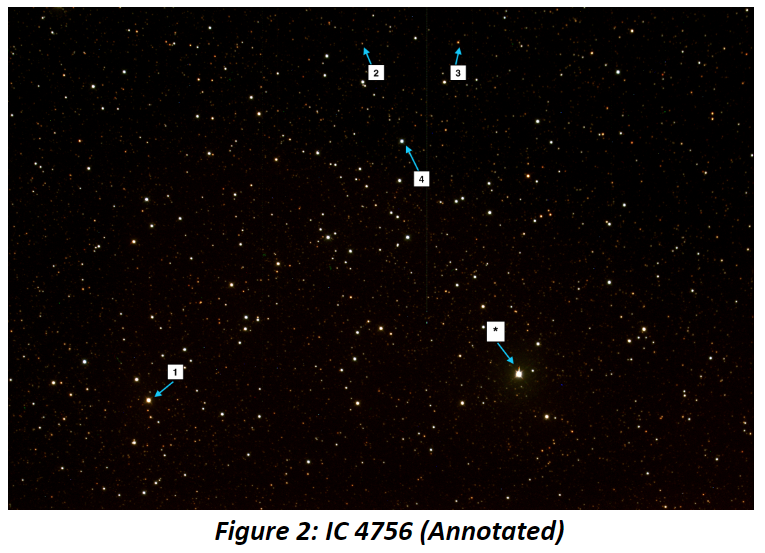
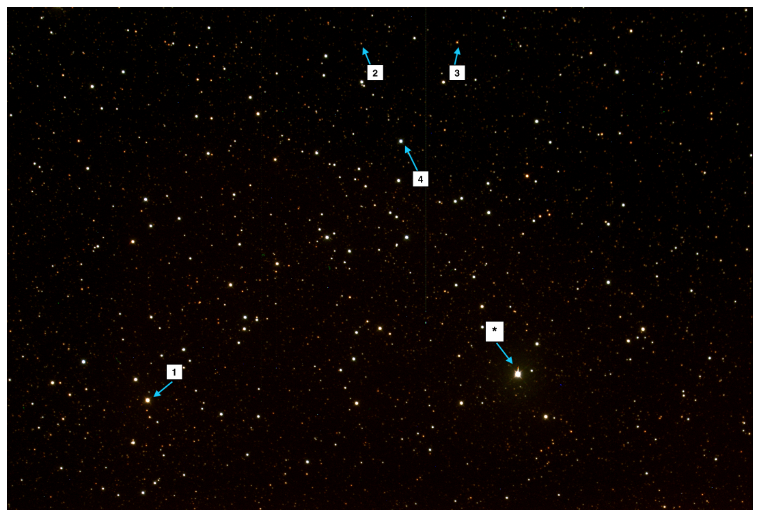
Responsive size; csa

diff --git a/index.html b/index.html
@@ -102,7 +102,9 @@
 
 					<div class="articleRight">
 						<div class="articleRightInner">
-							<iframe width="560" height="315" src="https://www.youtube.com/embed/FlZCPqNgSQo" frameborder="0" allow="accelerometer; autoplay; clipboard-write; encrypted-media; gyroscope; picture-in-picture" allowfullscreen></iframe>
+							<img src="img/others/astro2801p2.png" alt="astro2801p2" height=auto width="500"> >
+							<p>IC4756 Photographed @ Mayhill, New Mexico, USA</p>
+							<p>Oct 23rd 2019 </p>
 						</div>
 					</div>
 		
@@ -141,9 +143,9 @@
 					<h4>January 2021, Western University</h4>
 					<center><h4>Listed on Python Package Index</h4></center>
 					<center><a href="https://pypi.org/project/imvideo/"><b>**Official pypi.org Page**</b></a></center>
-					<center><img src="img/imvideo/pypi_logo.png" class="centerImage"  alt="Ontario Cases" height="200" width="800"></center>
-					<center><a href="https://xli2522.github.io/imvideo/"><b>**Official Project Page**</b></a></center>
-
+					<center><img src="img/imvideo/pypi_logo.png" class="centerImage"  alt="Ontario Cases" height=auto width="800"></center>
+					<center><a href="https://xli2522.github.io/imvideo/"><b>**Official Project Demo Page**</b></a></center>
+					<center><iframe width="560" height="315" src="https://www.youtube.com/embed/FlZCPqNgSQo" frameborder="0" allow="accelerometer; autoplay; clipboard-write; encrypted-media; gyroscope; picture-in-picture" allowfullscreen></iframe></center>
 					<!-- 2020 -->
 					<h2>2020</h2>
 					<h3>Fast Binary Black Hole Simulation</h3> 
@@ -165,6 +167,7 @@
 							<img src="img/cubsat/Earth_Coverage_2d.png" alt="Coverage 2D" onclick="myFunction(this);">
 						</div>
 					</div>
+					
 					<div class="row">
 						<div class="column">
 							<img src="img/cubsat/communication.png" alt="Communication" onclick="myFunction(this);">
@@ -179,11 +182,11 @@
 					
 					<h3>CovNET Project</h3>
 					<h4>May 2020, Department of Applied Mathematics, Muller Lab, Western University</h4>
-					<center><img src="img/CovModel/ontario.png" class="centerImage"  alt="Ontario Cases" height="400" width="628"></center>
+					<center><img src="img/CovModel/ontario.png" class="centerImage"  alt="Ontario Cases" height=auto width="628"></center>
 
 					<h3>Spatial SVEIIRS Model in Epidemiology</h3>
 					<h4>May 2020, Department of Physics and Astronomy, Western University</h4>
-					<center><img src="img/CovModel/presentation.png" class="centerImage"  alt="presentation" height="351" width="1200"></center>
+					<center><img src="img/CovModel/presentation.png" class="centerImage"  alt="presentation" height=auto width="1200"></center>
 
 					<!-- 2019 -->
 					<h2>2019</h2>
@@ -212,7 +215,7 @@
 						<div id="imgtext"></div>
 					</div>
 					<p></p>
-					<center><img src="img/wave/type2_thine_cover.png" class="centerImage"  alt="Type2" height="240" width="700"></center>
+					<center><img src="img/wave/type2_thine_cover.png" class="centerImage"  alt="Type2" height=auto width="700"></center>
 					<h3>OpenCV Case Study</h3>
 				    <center><iframe width="560" height="315" src="https://www.youtube.com/embed/sM9u2Yn_unw" frameborder="0" allow="accelerometer; autoplay; clipboard-write; encrypted-media; gyroscope; picture-in-picture" allowfullscreen></iframe></center>
 					<br>
@@ -225,6 +228,15 @@
 					<button type="button" class="collapsible">CLICK! <b>Data Analysis/Numerical Computation</b></button>
 					<div class="content">
 						<div class="row">
+							<div class="column">
+								<img src="img/others/astro2801p2front.png" alt="astro2801p2" onclick="myFunction(this);">
+							</div>
+							<div class="column">
+								<img src="img/others/gravity.png" alt="gravity" onclick="myFunction(this);">
+							</div>
+							<div class="column">
+								<img src="img/others/astro2801p3.png" alt="astro2801p3" onclick="myFunction(this);">
+							</div>
 							<div class="column">
 								<img src="img/ICM/Game4.2245DONT.png" alt="Game Detail" onclick="myFunction(this);">
 							</div>
@@ -241,10 +253,10 @@
 								<img src="img/others/part4average_grid.jpg" alt="part4average_grid" onclick="myFunction(this);">
 							</div>
 							<div class="column">
-								<img src="img/others/fence_ratio.png" alt="fence_ratio" onclick="myFunction(this);">
+								<img src="img/others/part2graph.jpg" alt="part2graph" onclick="myFunction(this);">
 							</div>
 							<div class="column">
-								<img src="img/others/part2graph.jpg" alt="part2graph" onclick="myFunction(this);">
+								<img src="img/others/fence_ratio.png" alt="fence_ratio" onclick="myFunction(this);">
 							</div>
 							<div class="column">
 								<img src="img/others/pendu.gif" alt="pendu" onclick="myFunction(this);">
@@ -252,15 +264,7 @@
 							<div class="column">
 								<img src="img/others/projectileEuler-Cromer.png" alt="projectile" onclick="myFunction(this);">
 							</div>
-							<div class="column">
-								<img src="img/others/astro2801p2.png" alt="astro2801p2 onclick="myFunction(this);">
-							</div>
-							<div class="column">
-								<img src="img/others/gravity.png" alt="gravity" onclick="myFunction(this);">
-							</div>
-							<div class="column">
-								<img src="img/others/astro2801p3.png" alt="astro2801p3" onclick="myFunction(this);">
-							</div>
+							
 						</div>
 					</div>
 					<button type="button" class="collapsible" style="color:red;"><mark><b>CLICK! Neural Network/Computer Vision</b></mark></button>
@@ -280,14 +284,14 @@
 					
 					<button type="button" class="collapsible">CLICK! Medical Imaging</button>
 					<div class="content">
-						<center><img src="img/others/VolumeRendering_Cardio1_top.png" class="centerImage"  alt="cardio volume" height="400" width="550"></center>
+						<center><img src="img/others/VolumeRendering_Cardio1_top.png" class="centerImage"  alt="cardio volume" height=auto width="550"></center>
 					</div>
 					
 					<!-- Certifications -->
 					<h2>Certifications</h2>
 
 					<h3>Analytical Graphics Inc.</h3>
-					<center><img src="img/cubsat/stk.jpg" class="centerImage"  alt="STK Cube" height="290" width="410"></center>
+					<center><img src="img/cubsat/stk.jpg" class="centerImage"  alt="STK Cube" height=auto width="410"></center>
 					<center><h4>STK 12 Level 1 | STK 12 Level 2 Mater Certificate </h4></center>
 					<center><h4>STK 12 Level 3 Grand Mater Certificate in Coverage, Analysis, and Space Environment.</h4></center>
 					<h3>Western University</h3>
@@ -316,7 +320,7 @@
 						<div class="subtitle">Special thanks to Professor Olga Trichtchenko and Professor Paul Weigert at Western University.</div>
 					</div>
 				</div>
-				<center><img src="img/badges/stk.png"  alt="STK" height="80" width="55"> <img src="img/badges/agi.png"  alt="agi" height="50" width="230"> <img src="img/badges/tensorflow.png"  alt="TF" height="50" width="230"> &emsp; &emsp; <img src="img/badges/gtc.png"  alt="coursera" height="65" width="70"> &emsp;&emsp; <img src="img/badges/github_archive.png"  alt="GitHub" height="40" width="255">&emsp;&emsp; <img src="img/badges/crc.png"  alt="crc" height="50" width="50"></body></center>
+				<center><img src="img/badges/stk.png"  alt="STK" height="80" width="55"> &emsp;<img src="img/badges/agi.png"  alt="agi" height="50" width="230"> &emsp;&emsp;<img src="img/badges/tensorflow.png"  alt="TF" height="50" width="230"> &emsp; &emsp; <img src="img/badges/gtc.png"  alt="coursera" height="65" width="70"> &emsp;&emsp; <img src="img/badges/github_archive.png"  alt="GitHub" height="40" width="255">&emsp;&emsp; <img src="img/badges/crc.png"  alt="crc" height="50" width="50"></body></center>
 				<div class="pagefooter">
 					This page was last edited in 1905 - The year of miracles | Template by <a href="http://html5-templates.com/" target="_blank" rel="nofollow">HTML5 Templates</a> <!-- Please leave this link unchanged -->
 					<div class="footerlinks">

diff --git a/style.css b/style.css
@@ -614,14 +614,14 @@ span.user {
 /* The grid: Four equal columns that floats next to each other */
 .column {
 	float: left;
-	width: 25%;
+	width: 32%;
 	padding: 10px;
 	text-align: center;
   }
   
   /* Style the images inside the grid */
   .column img {
-	opacity: 0.8;
+	opacity: 1;
 	cursor: pointer;
   }
   
@@ -694,4 +694,40 @@ span.user {
   mark {
 	background-color: yellow;
 	color: red;
+  }
+
+  /* Responsive Image Grid*/
+  .row {
+	display: flex;
+	flex-wrap: wrap;
+	padding: 0 4px;
+  }
+  
+  /* Create four equal columns that sits next to each other */
+  .column {
+	flex: 32%;
+	max-width: 32%;
+	padding: 0 4px;
+  }
+  
+  .column img {
+	margin-top: 8px;
+	vertical-align: middle;
+	width: 100%;
+  }
+  
+  /* Responsive layout - makes a two column-layout instead of four columns */
+  @media screen and (max-width: 800px) {
+	.column {
+	  flex: 50%;
+	  max-width: 50%;
+	}
+  }
+  
+  /* Responsive layout - makes the two columns stack on top of each other instead of next to each other */
+  @media screen and (max-width: 600px) {
+	.column {
+	  flex: 100%;
+	  max-width: 100%;
+	}
   }
